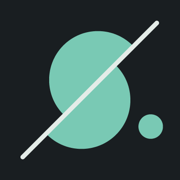
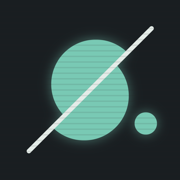
Splash screen / cleanup

Changed region(s): [[0.1111, 0.1111, 0.9167, 0.8889]]

diff --git a/styles.css b/styles.css
@@ -59,6 +59,7 @@ header {
   padding: 22px 22px 20px;
   border-bottom: 1px solid var(--line);
 }
+
 .eyebrow {
   font-family: var(--mono);
   font-size: 11px;
@@ -69,6 +70,7 @@ header {
   align-items: center;
   gap: 9px;
 }
+
 .eyebrow::before {
   content: "";
   width: 7px; height: 7px;
@@ -76,13 +78,31 @@ header {
   background: var(--accent);
   box-shadow: 0 0 10px var(--accent);
 }
+
+.title-row {
+  display: flex;
+  align-items: center;
+  gap: 12px;
+  margin-top: 10px;
+}
+
+.logo {
+  width: clamp(36px, 8vw, 44px);
+  height: clamp(36px, 8vw, 44px);
+  border-radius: 23%;
+  border: 1px solid var(--line);
+  display: block;
+  flex-shrink: 0;
+}
+
 h1 {
-  margin: 10px 0 4px;
+  margin: 0;
   font-size: clamp(30px, 9vw, 42px);
   letter-spacing: -0.02em;
   font-weight: 800;
   line-height: 1;
   text-wrap: balance;
+  text-shadow: 0 0 9px rgba(49, 217, 192, 0.22);
 }
 
 .tempo {
@@ -94,6 +114,7 @@ h1 {
   border-bottom: 1px solid var(--line);
   background: linear-gradient(180deg, rgba(49,217,192,0.03), transparent);
 }
+
 .tempo-label {
   font-family: var(--mono);
   font-size: 11px;
@@ -102,6 +123,7 @@ h1 {
   color: var(--muted);
   flex-basis: 100%;
 }
+
 .stepper {
   display: flex;
   align-items: stretch;
@@ -110,6 +132,7 @@ h1 {
   overflow: hidden;
   background: var(--row);
 }
+
 .stepper button {
   width: 46px;
   border: none;
@@ -120,8 +143,10 @@ h1 {
   cursor: pointer;
   transition: background 0.12s, color 0.12s;
 }
+
 .stepper button:hover { background: var(--row-hi); color: var(--accent); }
 .stepper button:active { background: var(--panel-2); }
+
 #bpm {
   width: 96px;
   border: none;
@@ -134,9 +159,11 @@ h1 {
   -moz-appearance: textfield;
   letter-spacing: -0.01em;
 }
+
 #bpm::-webkit-outer-spin-button,
 #bpm::-webkit-inner-spin-button { -webkit-appearance: none; margin: 0; }
 #bpm:focus-visible { outline: none; }
+
 .stepper:focus-within { border-color: var(--accent); box-shadow: 0 0 0 3px rgba(49,217,192,0.18); }
 
 .tap-btn, .stop-all, .play {
@@ -146,6 +173,7 @@ h1 {
   cursor: pointer;
   -webkit-tap-highlight-color: transparent;
 }
+
 .tap-btn {
   margin-left: auto;
   display: grid;
@@ -154,12 +182,14 @@ h1 {
   padding: 9px 18px;
   transition: transform 0.06s, border-color 0.12s, background 0.12s;
 }
+
 .tap-btn .k {
   font-family: var(--mono);
   font-weight: 700;
   font-size: 15px;
   letter-spacing: 0.16em;
 }
+
 .tap-btn:hover, .stop-all:hover, .play:hover { border-color: var(--accent-dim); }
 .stop-all:hover, .play:hover { color: var(--accent); }
 .tap-btn:active, .stop-all:active { transform: scale(0.96); }
@@ -167,6 +197,7 @@ h1 {
 .tap-btn.lit { border-color: var(--pulse); box-shadow: 0 0 0 3px rgba(255,177,78,0.16); }
 
 .rows { padding: 6px; }
+
 .row {
   display: grid;
   grid-template-columns: 1fr auto auto auto;
@@ -176,15 +207,18 @@ h1 {
   border-radius: 11px;
   transition: background 0.14s;
 }
+
 .row + .row { border-top: 1px solid var(--line); }
 .row.active {
   background: var(--row-hi);
   box-shadow: inset 0 0 0 1px var(--line-strong);
 }
+
 .row.active + .row,
 .row + .row.active { border-top-color: transparent; }
 
 .name-cell { min-width: 0; display: flex; align-items: center; gap: 10px; }
+
 .led {
   width: 9px; height: 9px;
   border-radius: 50%;
@@ -192,26 +226,33 @@ h1 {
   flex-shrink: 0;
   transition: background 0.09s ease-out, box-shadow 0.09s ease-out, transform 0.09s ease-out;
 }
+
 .led.beat {
   background: var(--pulse);
   box-shadow: 0 0 12px 1px var(--pulse);
   transform: scale(1.35);
 }
+
 .name-text { min-width: 0; }
+
 .name {
   font-size: 14.5px;
   font-weight: 600;
   letter-spacing: -0.01em;
   white-space: nowrap;
 }
+
 .bpm-cell { text-align: right; }
+
 .bpm-val {
   font-size: 22px;
   font-weight: 700;
   line-height: 1;
   color: var(--text);
+  text-shadow: 0 0 7px rgba(230, 239, 236, 0.18);
 }
-.row.active .bpm-val { color: var(--accent); }
+
+.row.active .bpm-val { color: var(--accent); text-shadow: 0 0 9px rgba(49, 217, 192, 0.4); }
 .bpm-cell .u, .ms-cell .u {
   font-size: 9.5px;
   letter-spacing: 0.14em;
@@ -220,6 +261,7 @@ h1 {
   display: block;
   margin-top: 3px;
 }
+
 .ms-cell { text-align: right; min-width: 52px; }
 .ms-val { font-size: 14px; color: var(--muted); line-height: 1; }
 
@@ -230,6 +272,7 @@ h1 {
   padding: 0;
   transition: transform 0.06s, border-color 0.14s, background 0.14s, color 0.14s;
 }
+
 .play svg { width: 15px; height: 15px; display: block; }
 .row.active .play {
   background: var(--accent);
@@ -245,6 +288,7 @@ h1 {
   border-top: 1px solid var(--line);
   background: linear-gradient(180deg, transparent, rgba(49,217,192,0.04));
 }
+
 .transport[hidden] { display: none; }
 .playing-count {
   font-family: var(--mono);
@@ -253,6 +297,7 @@ h1 {
   text-transform: uppercase;
   color: var(--muted);
 }
+
 .stop-all {
   margin-left: auto;
   border-radius: 10px;
@@ -280,17 +325,16 @@ h1 {
     radial-gradient(130% 130% at 50% 50%, transparent 62%, rgba(0, 0, 0, 0.32) 100%);
   animation: crt-flicker 3.2s ease-in-out infinite, crt-roll 6s linear infinite;
 }
+
 @keyframes crt-flicker {
   0%, 100% { opacity: 1; }
   50% { opacity: 0.965; }
 }
+
 @keyframes crt-roll {
   from { background-position: 0 0,     0 0; }
   to   { background-position: 0 -30px, 0 0; }
 }
-h1 { text-shadow: 0 0 9px rgba(49, 217, 192, 0.22); }
-.bpm-val { text-shadow: 0 0 7px rgba(230, 239, 236, 0.18); }
-.row.active .bpm-val { text-shadow: 0 0 9px rgba(49, 217, 192, 0.4); }
 
 :focus-visible { outline: 2px solid var(--accent); outline-offset: 2px; border-radius: 8px; }
 

diff --git a/index.html b/index.html
@@ -4,10 +4,24 @@
     <meta charset="utf-8">
     <meta name="viewport" content="width=device-width, initial-scale=1, maximum-scale=1, user-scalable=no, viewport-fit=cover">
     <meta name="theme-color" content="#0c1012">
+    <meta name="apple-mobile-web-app-capable" content="yes">
+    <meta name="apple-mobile-web-app-status-bar-style" content="black">
+    <meta name="apple-mobile-web-app-title" content="Subdiv">
     <title>Subdiv — Tap Tempo Subdivision Calculator</title>
     <link rel="icon" type="image/png" sizes="32x32" href="favicon-32.png">
     <link rel="apple-touch-icon" href="apple-touch-icon.png">
     <link rel="manifest" href="site.webmanifest">
+    <link rel="apple-touch-startup-image" media="(device-width: 375px) and (device-height: 667px) and (-webkit-device-pixel-ratio: 2) and (orientation: portrait)" href="apple-splash/splash-750x1334.png">
+    <link rel="apple-touch-startup-image" media="(device-width: 360px) and (device-height: 780px) and (-webkit-device-pixel-ratio: 3) and (orientation: portrait)" href="apple-splash/splash-1080x2340.png">
+    <link rel="apple-touch-startup-image" media="(device-width: 375px) and (device-height: 812px) and (-webkit-device-pixel-ratio: 3) and (orientation: portrait)" href="apple-splash/splash-1125x2436.png">
+    <link rel="apple-touch-startup-image" media="(device-width: 390px) and (device-height: 844px) and (-webkit-device-pixel-ratio: 3) and (orientation: portrait)" href="apple-splash/splash-1170x2532.png">
+    <link rel="apple-touch-startup-image" media="(device-width: 393px) and (device-height: 852px) and (-webkit-device-pixel-ratio: 3) and (orientation: portrait)" href="apple-splash/splash-1179x2556.png">
+    <link rel="apple-touch-startup-image" media="(device-width: 402px) and (device-height: 874px) and (-webkit-device-pixel-ratio: 3) and (orientation: portrait)" href="apple-splash/splash-1206x2622.png">
+    <link rel="apple-touch-startup-image" media="(device-width: 414px) and (device-height: 896px) and (-webkit-device-pixel-ratio: 2) and (orientation: portrait)" href="apple-splash/splash-828x1792.png">
+    <link rel="apple-touch-startup-image" media="(device-width: 414px) and (device-height: 896px) and (-webkit-device-pixel-ratio: 3) and (orientation: portrait)" href="apple-splash/splash-1242x2688.png">
+    <link rel="apple-touch-startup-image" media="(device-width: 428px) and (device-height: 926px) and (-webkit-device-pixel-ratio: 3) and (orientation: portrait)" href="apple-splash/splash-1284x2778.png">
+    <link rel="apple-touch-startup-image" media="(device-width: 430px) and (device-height: 932px) and (-webkit-device-pixel-ratio: 3) and (orientation: portrait)" href="apple-splash/splash-1290x2796.png">
+    <link rel="apple-touch-startup-image" media="(device-width: 440px) and (device-height: 956px) and (-webkit-device-pixel-ratio: 3) and (orientation: portrait)" href="apple-splash/splash-1320x2868.png">
     <link rel="stylesheet" href="styles.css">
   </head>
 
@@ -15,7 +29,10 @@
     <main class="unit">
       <header>
         <div class="eyebrow">Tap Tempo Calculator</div>
-        <h1>Subdiv</h1>
+        <div class="title-row">
+          <img class="logo" src="icon-192.png" alt="" width="44" height="44">
+          <h1>Subdiv</h1>
+        </div>
       </header>
 
       <section class="tempo">
